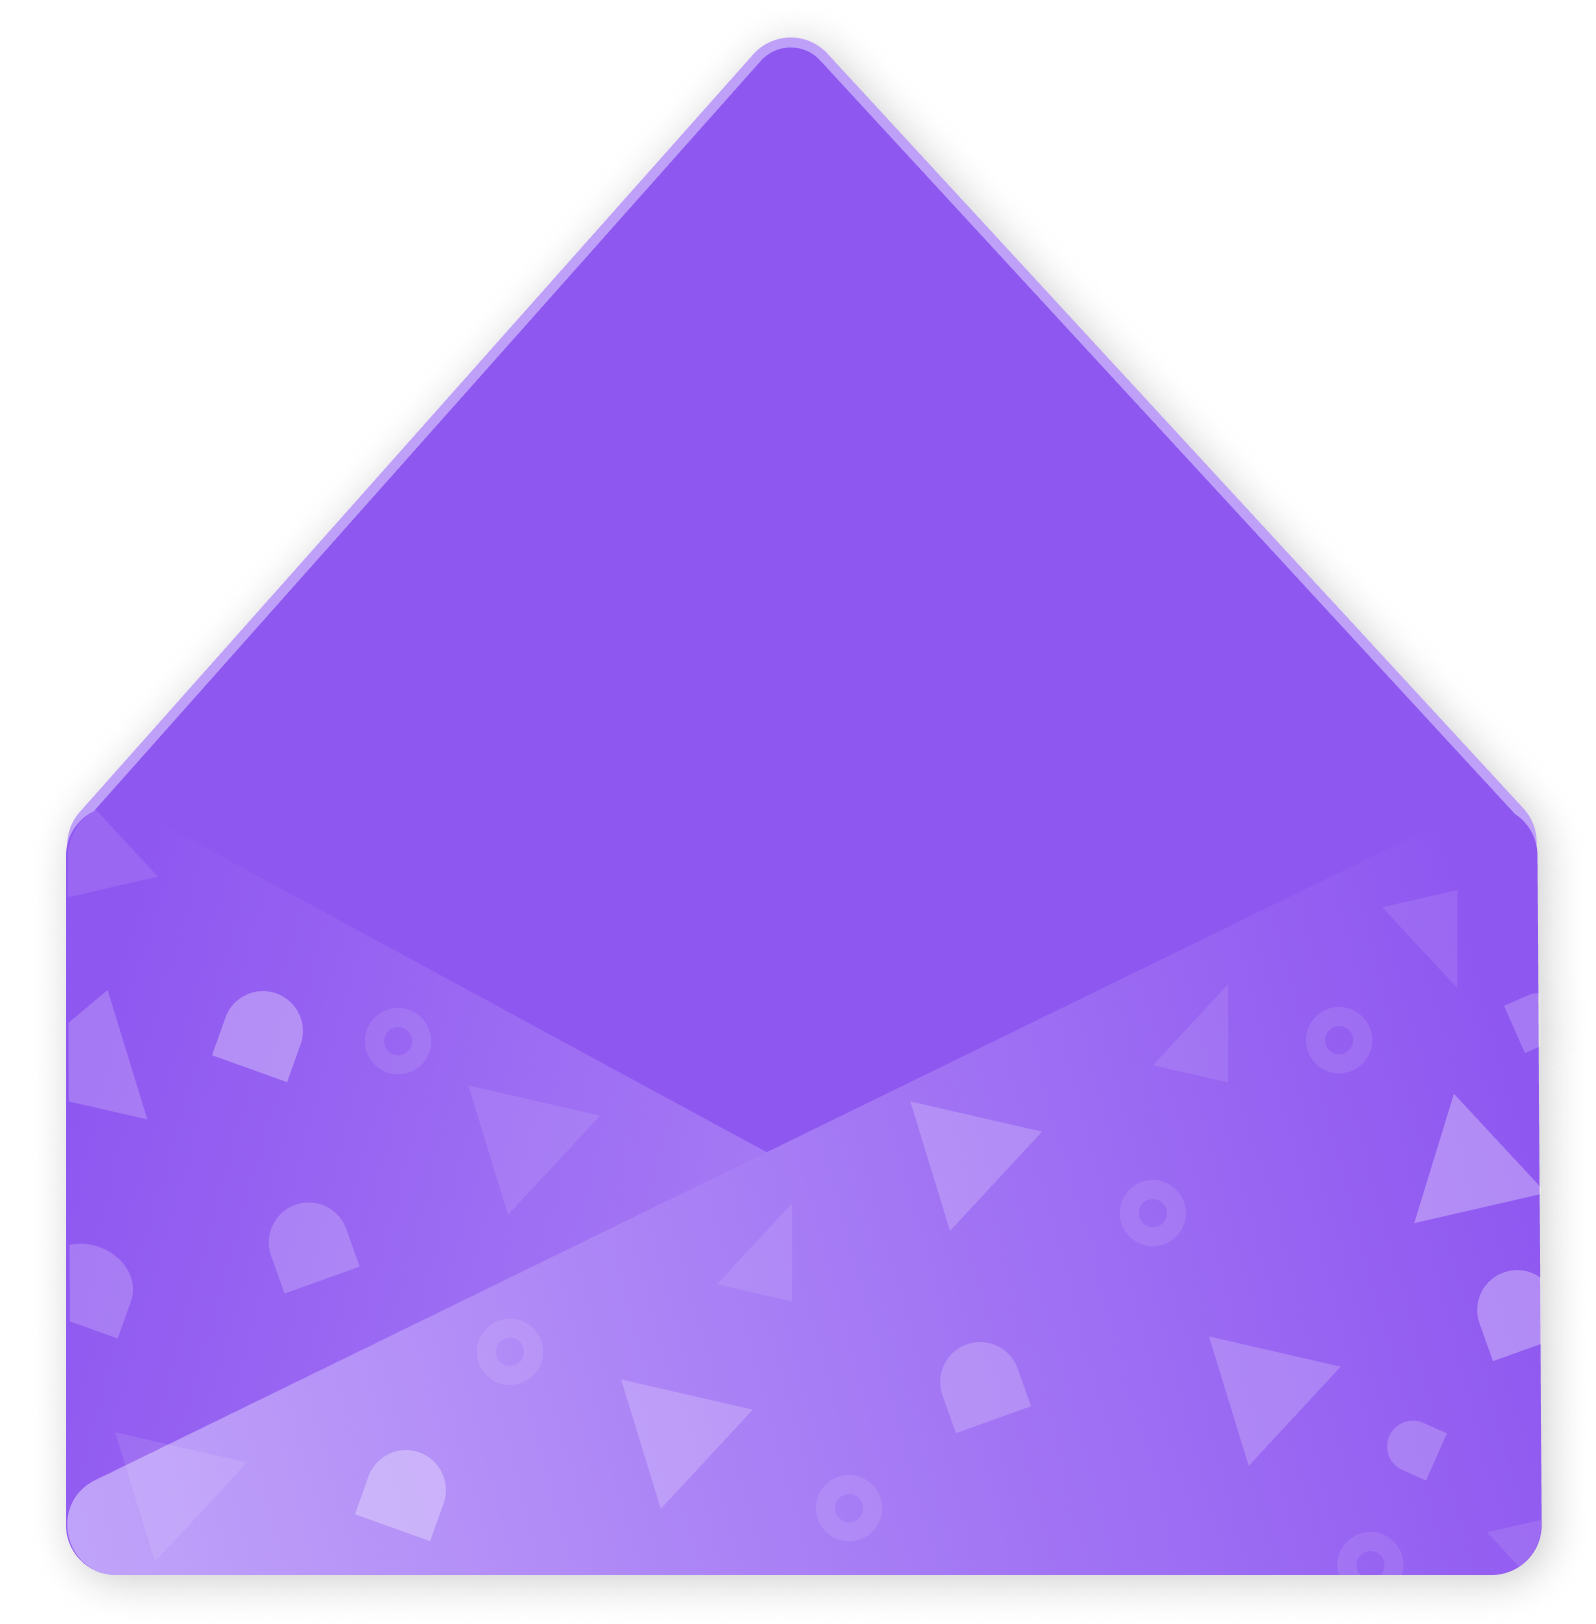
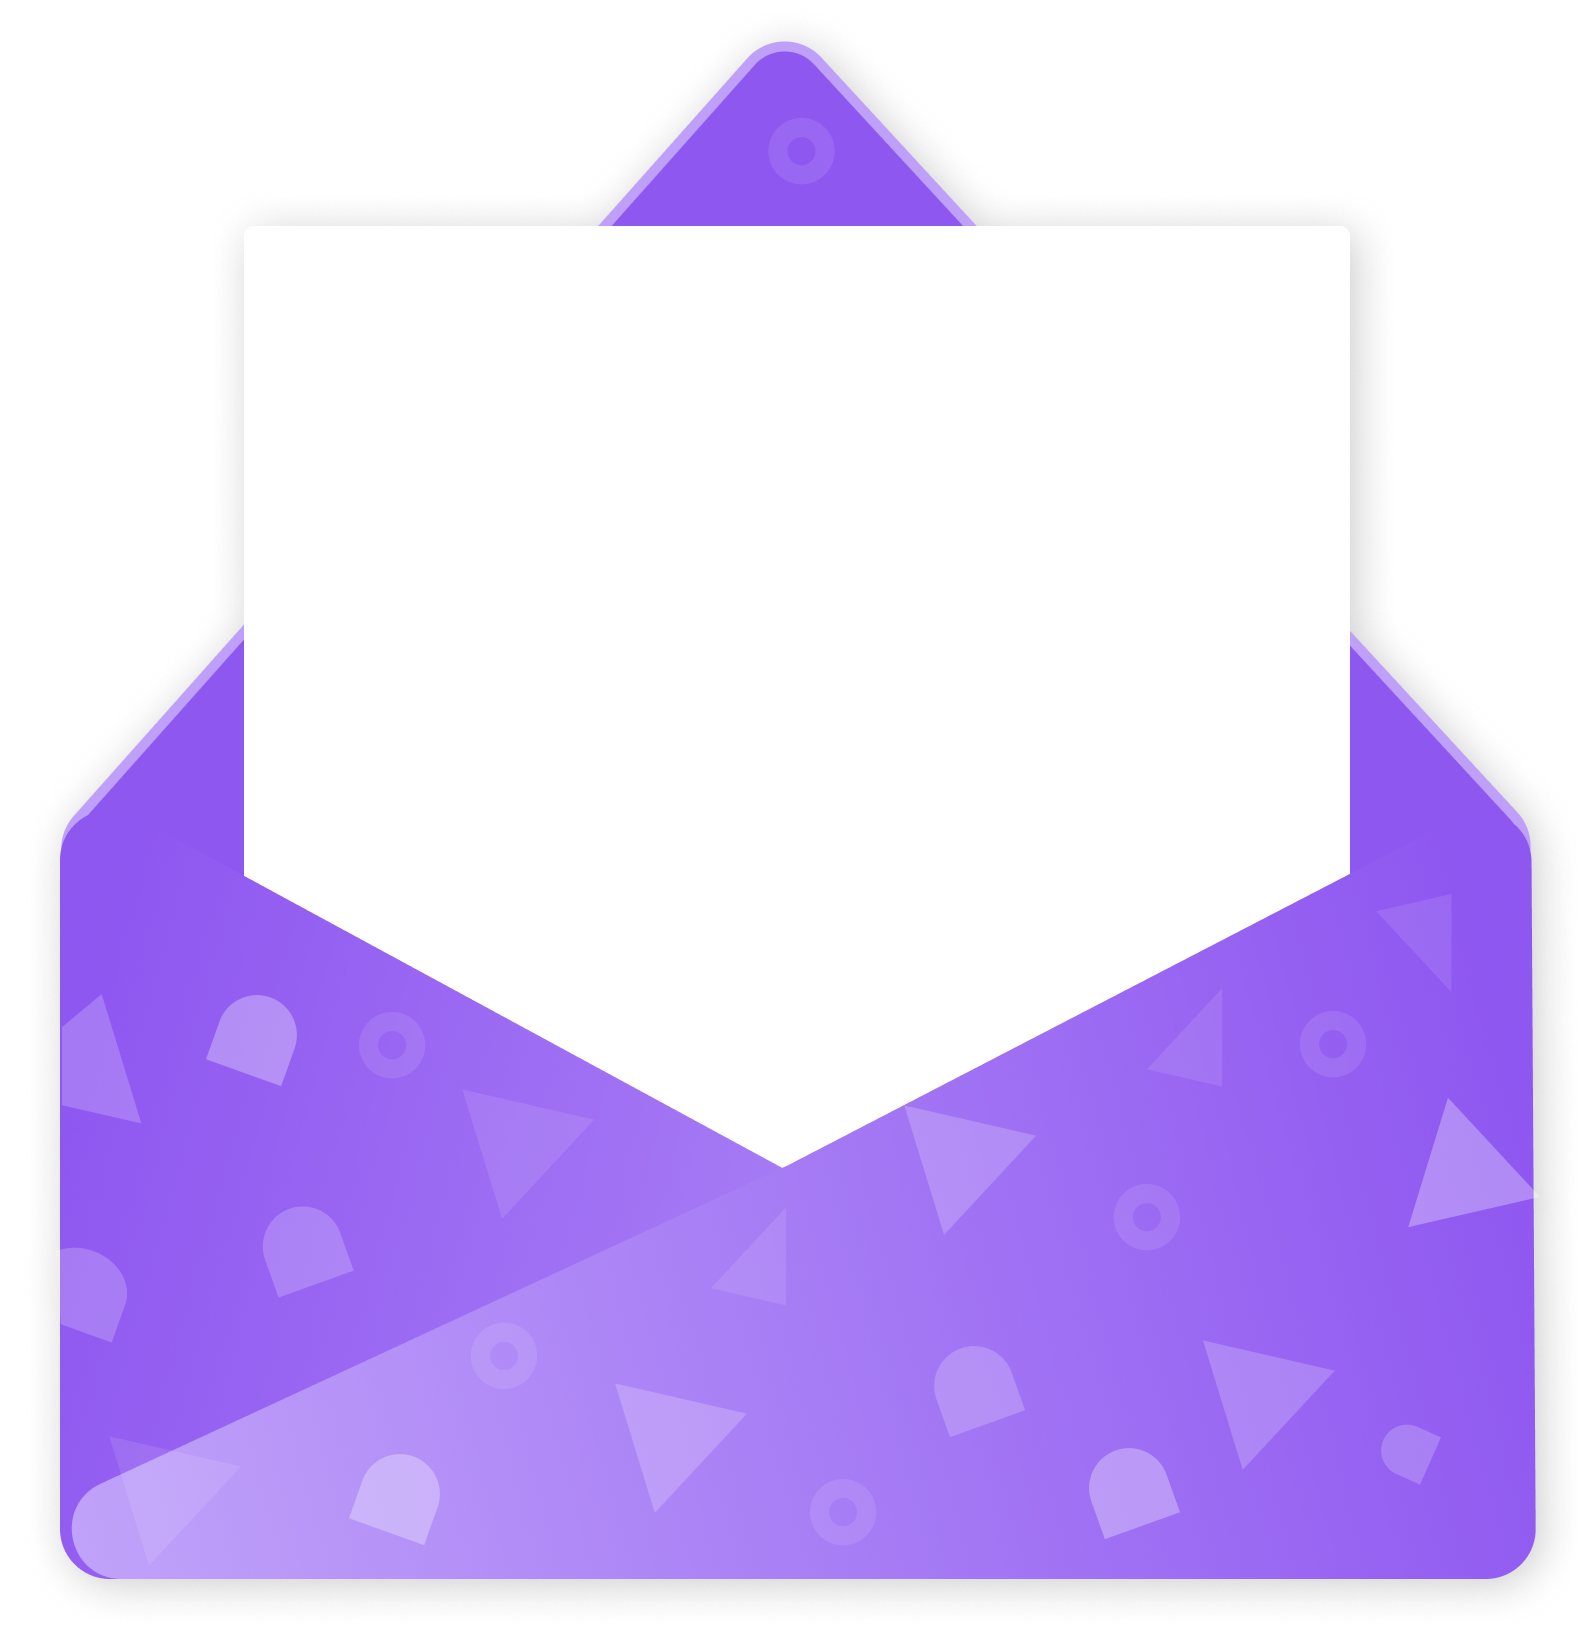
Update newsletter design with paper

diff --git a/contact/contact.html b/contact/contact.html
@@ -1,8 +1,8 @@
 <!--
    contact.html
-   
+
    Copyright 2020 Sanya Gupta <sanyagupta@Sanyas-MacBook-Pro.local>
-   
+
 -->
 
 <DOCTYPE !html>
@@ -26,11 +26,10 @@
         <li><a href="about">ABOUT</a></li>
         <li><a href="youtube">YOUTUBE</a></li>
         <li><a href="blog">BLOG</a></li>
-        <li><a href="projects">PROJECTS</a></li>
       </ul>
     </nav>
-    
-    
+
+
     <section class = "contact-form">
 		<div class = "grid-container">
 			<div id = "popup">
@@ -38,15 +37,15 @@
 			<div>
 			<h3>Let's Talk!</h3>
 				<form action="action_page.php">
-					
-					
+
+
 				<label for="To:">To:</label>
 				<!--<select id="To:" name="To:">
 				<option value="Founder:">Founder: shivali@girlgeniusmag.tech</option>
 				<option value="Co-Lead">Co-Lead: chloe@girlgeniusmag.tech</option>
 				<option value="Partnerships">Partnerships: agnes@girlgeniusmag.tech</option>
 				</select>-->
-				
+
 				<div class="custom-select" style="width:350px;">
 					<select>
 						<option value="0">Select...</option>
@@ -55,25 +54,25 @@
 						<option value="3">Partnerships: agnes@girlgeniusmag.tech</option>
 					</select>
 				</div>
-				
-				
-    
+
+
+
 				<label for="name">Name</label>
 			<!--<br></br>-->
 				<input type="text" id="name" name="name" placeholder="Jane Doe">
 
-				<label for="email">Email</label>	
+				<label for="email">Email</label>
 				<input type="text" id="email" name="email" placeholder="example@gmail.com">
 				</div>
-				
+
 				<div>
 				<img src="black-innovators.png" alt="Black Innovators">
 				</div>
 			</div>
-			
+
 			<label for="message">Message</label>
 			<textarea id="message" name="message" placeholder="Type your message here..." style="height:200px"></textarea>
-			
+
 			<!-- <div id="sendbutton" style="text-align:center;"> -->
 			<input type="button" style="resize:horizontal; width:200px; margin:0px auto; display:block;" value="SEND">
 
@@ -81,7 +80,7 @@
 		</div>
 	</div>
     </section>
-    
+
     <br><br><br>
 	<footer>
 		<h2 >Girl Genius</h2>
@@ -103,4 +102,4 @@
 
 	<script src="contact.js"></script>
 </body>
-</html> 
+</html>

diff --git a/newsletter.css b/newsletter.css
@@ -50,7 +50,6 @@ form {
 form div {
 	float: center;
 	margin-bottom: 10px;
-	margin-left: -45px;
 }
 
 form div input {
@@ -119,10 +118,9 @@ form div input:focus {
 	text-align: center;
 	padding: 20px;
 	font-family: 'Sofia Pro', sans-serif;
-	color: #dac7ff;
-	font-size: 18px;
-	margin-bottom: -25px;
-  margin-top: 20px;
+	color: #b18df4;
+  margin-top: -10px;
+	margin-bottom: -10px;
 	line-height: 15px;
 }
 
@@ -142,12 +140,11 @@ a:hover {
 	clear: both;
 	float: center;
 	text-align: center;
-	background: #f3edff;
+	background: #8E57F0;
 	padding: 12px 24px;
 	cursor: pointer;
 	text-decoration: none;
-	margin-left: -45px;
-	color: #8F56F0;
+	color: #f3edff;
 	border-radius: 100px;
 	font-size: 13px;
 	transition: 0.2s;
@@ -155,9 +152,9 @@ a:hover {
 }
 
 #submit:hover {
-  	color: #7B6BD9;
 	text-decoration: none;
-	background-color: #fff;
+  color: #fff;
+	background-color: #b18df4;
 }
 
 #hp {
@@ -240,18 +237,17 @@ ul li a:hover {
 h1 {
 	font-family: 'Sofia Pro SemiBold';
 	font-weight: bold;
-	font-size: 50px;
-	color: #f3edff;
+	font-size: 40px;
+	color: #8E57F0;
 	text-align: center;
-	line-height: 50px;
-	margin-top: -70px;
+	line-height: 40px;
+	margin-top: -90px;
 }
 
 h3 {
 	font-family: 'Sofia Pro Medium';
 	font-weight: bold;
-	font-size: 18px;
-	color: #dac7ff;
+	color: #b18df4;
 	text-align: center;
 	line-height: 25px;
 }
@@ -315,9 +311,9 @@ h4 {
   font-weight: 400;
   font-size: 14px;
   line-height: 5px;
-  color: #f3edff;
+  color: #8E57F0;
   text-align: left;
-	margin-left: 90px;
+	margin-left: 67.5px;
 }
 
 footer{
@@ -441,6 +437,12 @@ footer #links a{
 	.top-image {
 		display:none;
 	}
+  h3 {
+    font-size: 12px;
+  }
+  .container h2 {
+    font-size: 12px;
+  }
 }
 
 @media screen and (min-width: 1000px) {
@@ -453,4 +455,10 @@ footer #links a{
 	.top-image {
 		width: 75%;
 	}
+  h3 {
+    font-size: 18px;
+  }
+  .container h2 {
+    font-size: 16px;
+  }
 }

diff --git a/newsletter.html b/newsletter.html
@@ -70,7 +70,11 @@
 								<input type="hidden" name="subform" value="yes"/>
 								<br>
 								<a href="javascript:void(0)" title="" id="submit">JOIN US</a>
-								<h2><br></h2>
+								<h2><br><br></h2>
+								<h2><br><br></h2>
+								<h2><br><br></h2>
+								<h2><br><br></h2>
+								<h2><br><br></h2>
 
 							</form>
 
